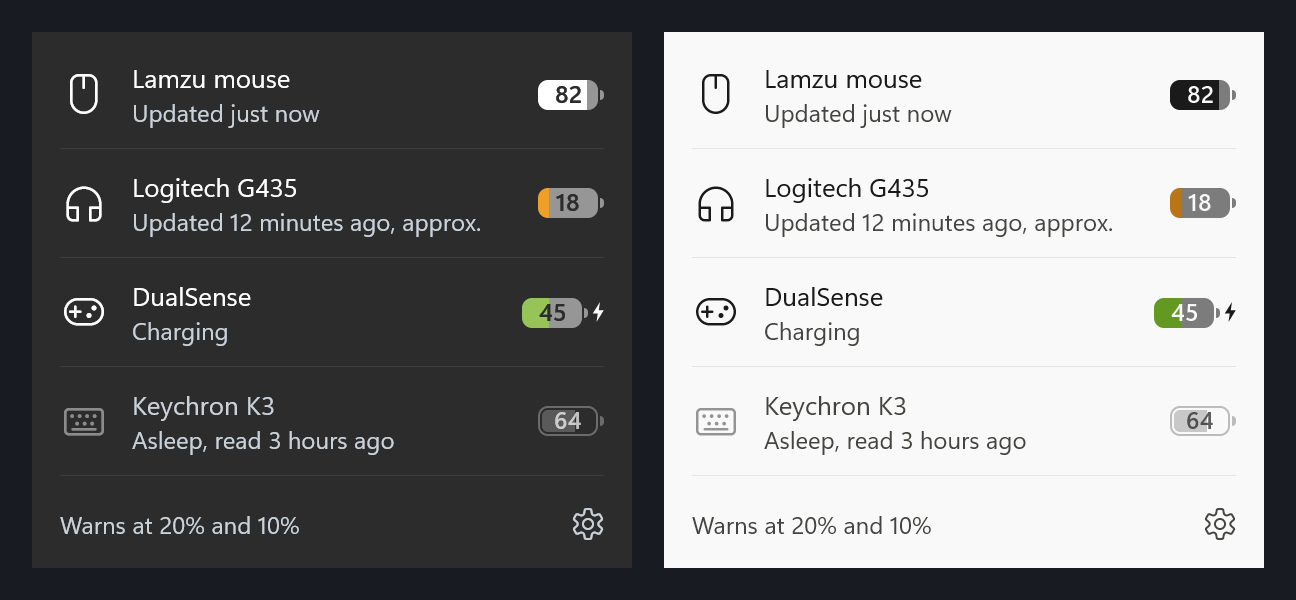
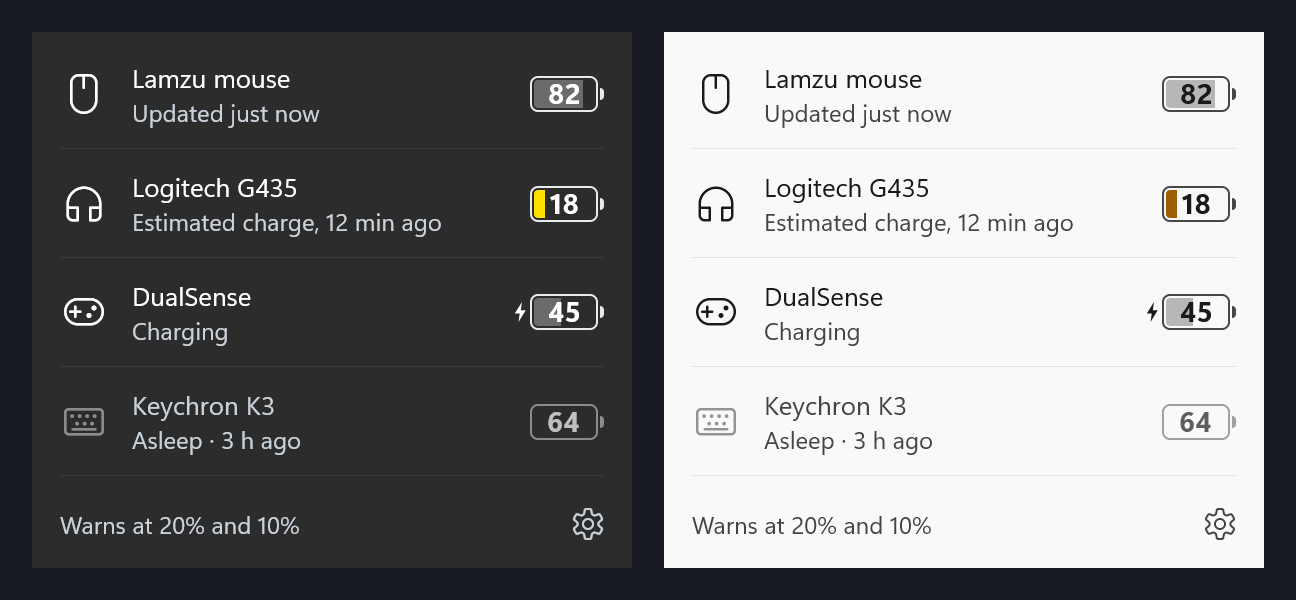
Refresh the README: current screenshots, version, memory, troubleshooting
- Replace the three screenshots with the current 0.3.0-beta.6 design: the
  taskbar strip and the device list in English and Russian.
- Show the current version with links to the changelog and releases.
- Memory figure now matches Task Manager (about 60 MB).
- Settings list includes "Report a device".
- English README gets the "If something goes wrong" section the Russian one has.

diff --git a/README.ru.md b/README.ru.md
@@ -2,6 +2,8 @@
 
 Русский · **[English](README.md)**
 
+Текущая версия: **0.3.0-beta.6** · [Что нового](CHANGELOG.ru.md) · [Релизы](../../releases)
+
 Маленькая полоска на панели задач Windows 11, вплотную слева от значков у часов. Она показывает заряд беспроводных
 устройств: мыши, наушников, геймпада, клавиатуры. Программа сама находит подключённые устройства и показывает столько, сколько подключено.
 
@@ -20,7 +22,7 @@
 - **Подстраивается под панель**: светлая и тёмная тема, перезапуск Проводника, сон, тесная панель.
   Если значки приложений доходят до полоски, сначала прячутся иконки устройств, а если места совсем нет,
   устройства переезжают в значки у часов.
-- **Маленькая и тихая**: один файл около 500 КБ, около 35 МБ памяти, почти ноль процессора. Права администратора не нужны,
+- **Маленькая и тихая**: один файл около 500 КБ, около 60 МБ памяти (как показывает Диспетчер задач), почти ноль процессора. Права администратора не нужны,
   ничего доустанавливать не надо, рекламы и телеметрии нет. В интернет программа ходит только для проверки обновлений,
   если вы её включите.
 - **Не мешает играм.** Пока на экране полноэкранная игра или видео, программа ничего не отправляет устройствам и не
@@ -83,7 +85,7 @@
 ## Настройки
 
 В шестерёнке окна по клику: автозапуск, предупреждения о низком заряде, чтение G435, проверка обновлений,
-«Обновить заряд сейчас», журнал и выход. Ещё несколько настроек — в файле `%LOCALAPPDATA%\BatteryStrip\settings.txt`:
+«Обновить заряд сейчас», «Сообщить об устройстве», журнал и выход. Ещё несколько настроек — в файле `%LOCALAPPDATA%\BatteryStrip\settings.txt`:
 
 ```
 # ru, en или пусто — как в Windows

diff --git a/README.md b/README.md
@@ -2,6 +2,8 @@
 
 **[Русский](README.ru.md)** · English
 
+Current version: **0.3.0-beta.6** · [What's new](CHANGELOG.md) · [Releases](../../releases)
+
 A tiny strip on the Windows 11 taskbar, right next to the clock, that shows the charge of your wireless devices:
 mouse, headset, controller, keyboard. It finds them by itself and shows as many as are connected.
 
@@ -20,7 +22,7 @@ mouse, headset, controller, keyboard. It finds them by itself and shows as many 
 - **Notifications** when a device drops to 20% and to 10%, once each.
 - **Follows the taskbar**: light or dark theme, Explorer restarts, sleep, a crowded taskbar (the icons go first,
   then the devices move to tray icons).
-- **Small and quiet**: one file of about 500 KB, about 35 MB of memory, close to zero CPU. No administrator rights,
+- **Small and quiet**: one file of about 500 KB, about 60 MB of memory (as Task Manager shows it), close to zero CPU. No administrator rights,
   no runtime to install, no ads, no telemetry. The only network access is an optional daily update check.
 - **Stays out of games.** While a full-screen game or video is in front, the app sends nothing to devices and leaves
   the taskbar alone; it only listens to what devices send by themselves. It injects into no process, installs no
@@ -78,7 +80,7 @@ The same from a command prompt: `"%LOCALAPPDATA%\Programs\BatteryStrip\BatterySt
 ## Settings
 
 The gear in the device list: start with Windows, low battery warnings, G435 reading, update check, refresh now,
-log, exit. A few more options live in `%LOCALAPPDATA%\BatteryStrip\settings.txt`:
+report a device, open the log, exit. A few more options live in `%LOCALAPPDATA%\BatteryStrip\settings.txt`:
 
 ```
 # ru, en, or empty to follow Windows
@@ -95,6 +97,12 @@ attach, tray icons stand in. The window's thread only draws: device work happens
 window shares its input queue with Explorer.
 
 Design notes: [docs/design.md](docs/design.md). Device protocols: [research/devices.md](research/devices.md).
+
+## If something goes wrong
+
+- **The strip disappeared.** After Explorer restarts or the PC wakes from sleep, it comes back by itself within a few
+  seconds. If Windows does not let it attach to the taskbar, after 20 seconds the devices appear as tray icons instead.
+- **The log**: gear → *Open log*, or the file `%LOCALAPPDATA%\BatteryStrip\logs\app.log`.
 
 ## Building
 
